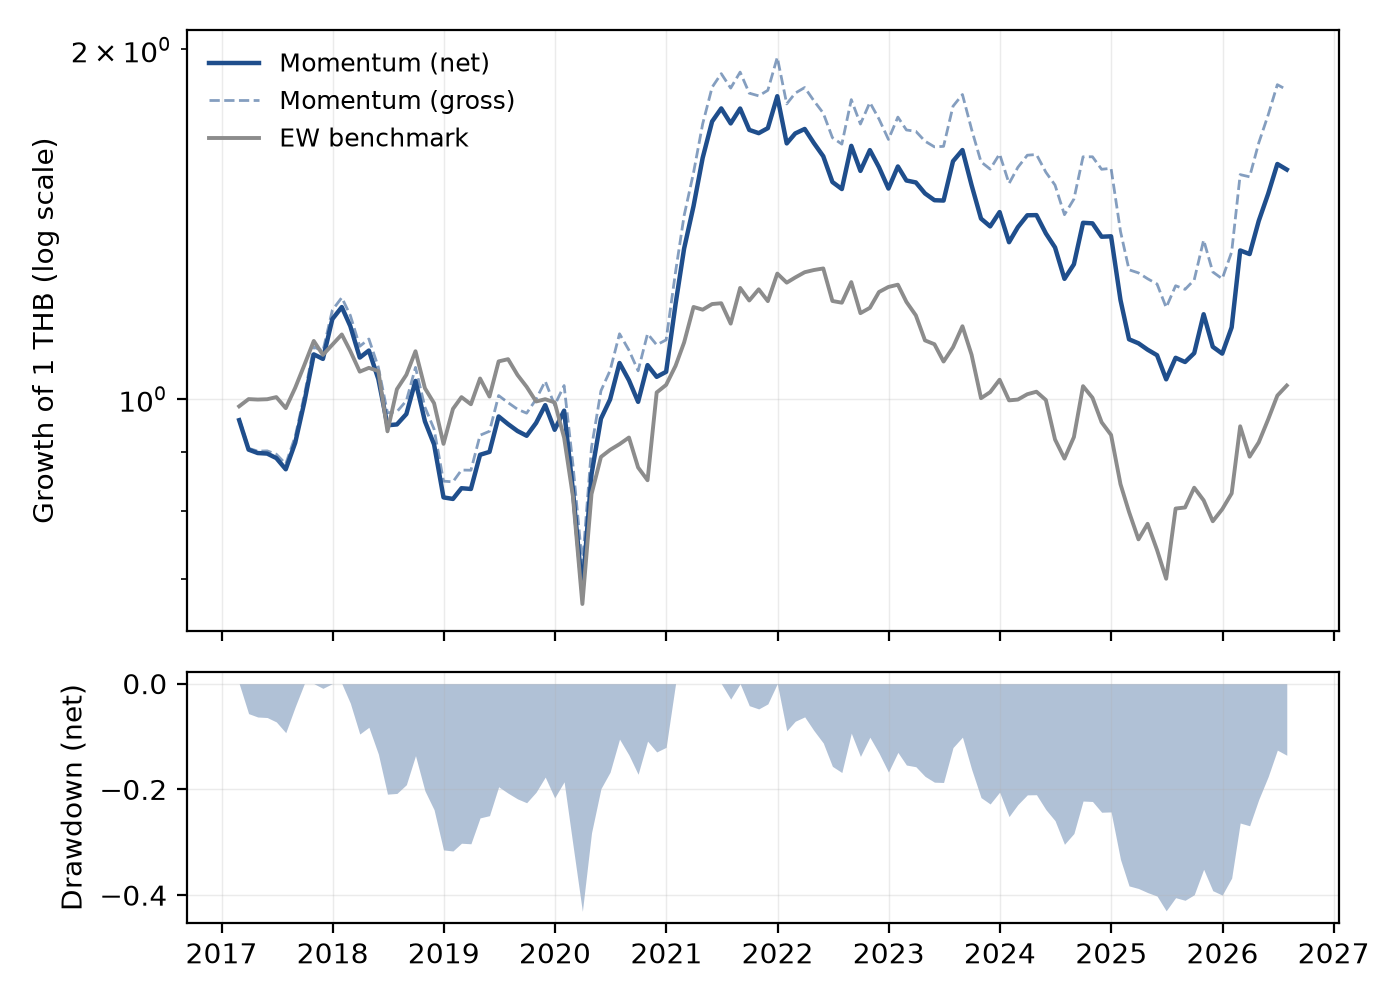
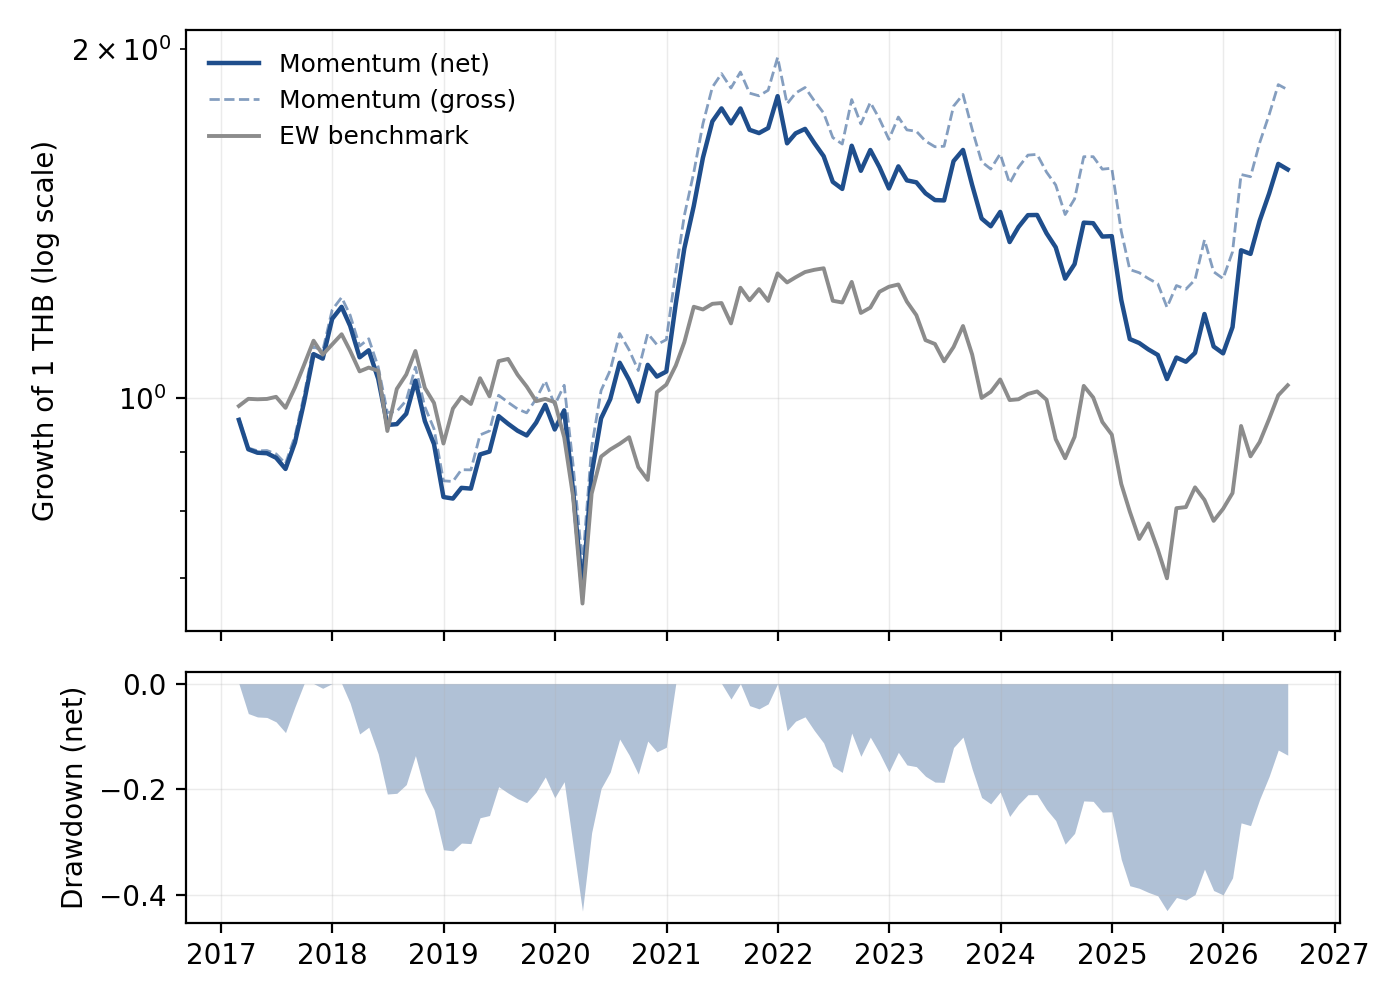
Pre-register 2005 sample extension

diff --git a/research/preregistrations.md b/research/preregistrations.md
@@ -1,18 +1,9 @@
-\# Pre-registrations
+# Pre-registrations
 
-
-
-\## 2026-07-XX: Sample extension to 2005
-
+## 2026-07-06: Sample extension to 2005
 Extension of the original momentum hypothesis to 2005-2026 using
-
 official SET constituent lists 2005H1-2015H2. Identical design:
-
 12-1 signal, top decile, monthly rebalance, 0.25%/side costs,
-
 EW benchmark. Prediction: same sign of active return; the question
-
-is whether t-stat exceeds 2.0 with the tripled sample. Committed
-
-BEFORE parsing the new files or running any backtest.
-
+is whether the t-stat exceeds 2.0 with the tripled sample.
+Committed before any backtest on the extended sample.